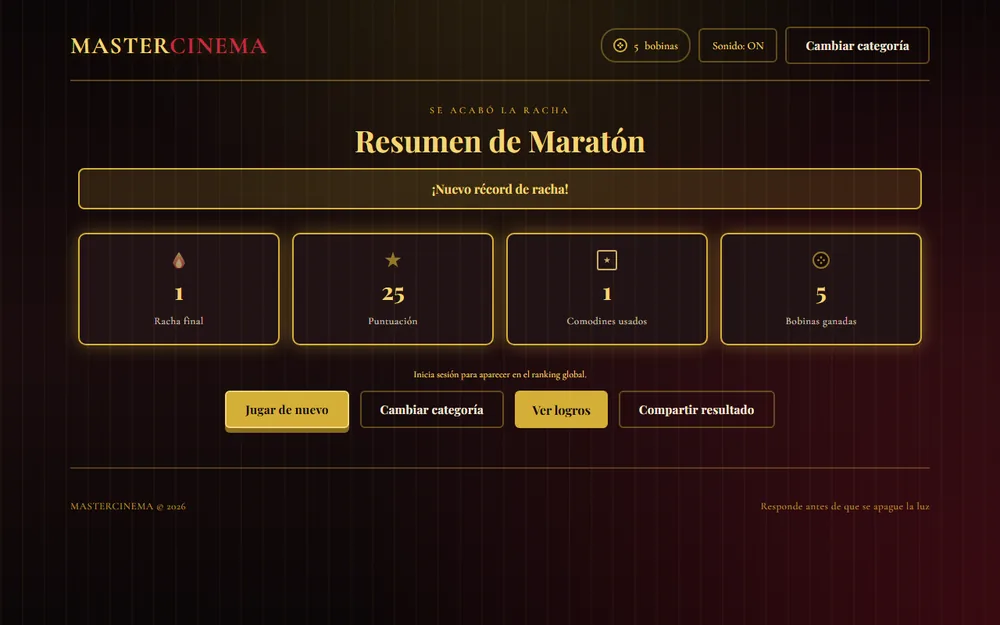
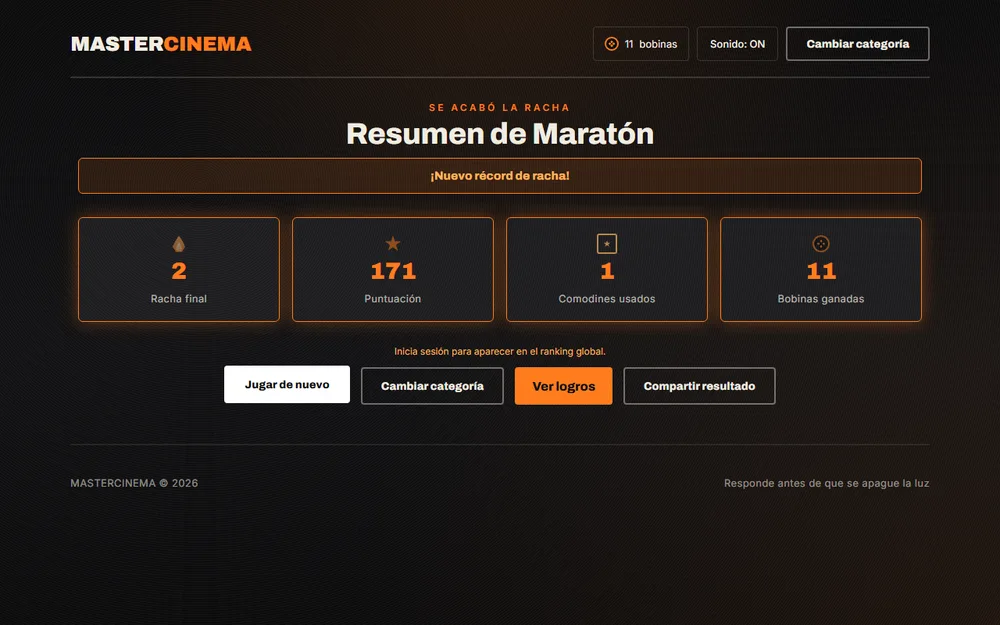
Actualiza capturas de OneDay y MasterCinema con los rediseños

diff --git a/src/sections/MarqueeSection.tsx b/src/sections/MarqueeSection.tsx
@@ -13,13 +13,13 @@ import mastercinemaMaraton from '../assets/screenshots/mastercinema-maraton.webp
 type Shot = { src: string; alt: string; position?: string } | { label: string };
 
 const PROJECT_SHOTS: Shot[] = [
-  { src: onedayStart, alt: 'OneDay era-selection start screen' },
+  { src: onedayStart, alt: 'OneDay almanac-style home screen listing the six playable eras' },
   { src: pawmatchChat, alt: 'PawMatch conversation with a match', position: 'top' },
   { src: retrogamesPortal, alt: 'RetroGames arcade landing screen' },
   { src: mastercinemaVestibulo, alt: 'MasterCinema landing screen', position: 'top' },
   { label: 'Antonio Valencia Estilistas — booking' },
   { label: 'Trivia (Unity) — gameplay' },
-  { src: onedayDayLoop, alt: 'OneDay day loop with the recurring NPC Kleon' },
+  { src: onedayDayLoop, alt: 'OneDay decision screen in Córdoba, 961' },
   { src: pawmatchProfile, alt: 'PawMatch dog profile screen', position: 'top' },
   { src: retrogamesTienda, alt: 'RetroGames cabinet skins shop', position: 'top' },
   { src: mastercinemaMaraton, alt: 'MasterCinema trivia question in Marathon mode' },

diff --git a/src/sections/ProjectsSection.tsx b/src/sections/ProjectsSection.tsx
@@ -35,9 +35,9 @@ const PROJECTS: Project[] = [
     buttonLabel: 'Live Project',
     href: 'https://lucasmarjua-ui.github.io/oneday/',
     images: [
-      { src: onedayStart, alt: 'OneDay era-selection start screen' },
-      { src: onedayDayLoop, alt: 'OneDay day loop — encounter with the recurring NPC Kleon' },
-      { src: onedaySummary, alt: 'OneDay end-of-day summary screen with stats and daily objectives' },
+      { src: onedayStart, alt: 'OneDay almanac-style home screen listing the six playable eras' },
+      { src: onedayDayLoop, alt: 'OneDay decision screen in Córdoba, 961 — three narrative choices' },
+      { src: onedaySummary, alt: 'OneDay end-of-day persona reveal in Edo, 1750, with stats and objectives' },
     ],
   },
   {
